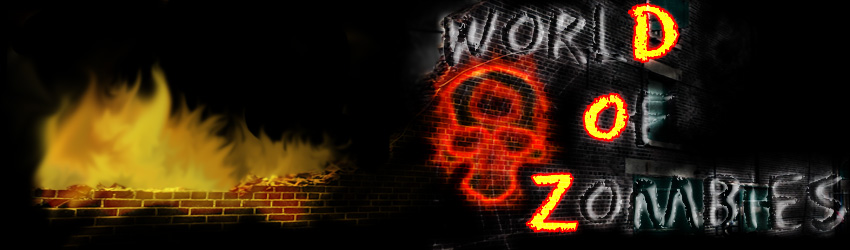
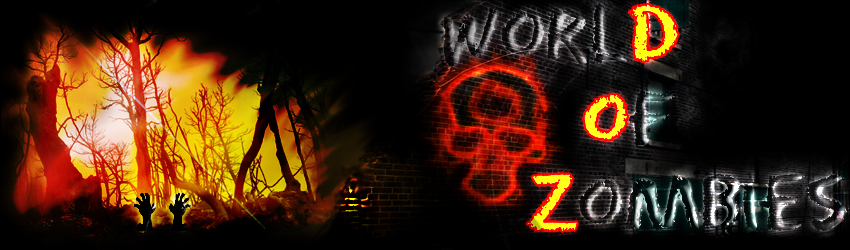
guild
noch net fertig bzw noch nicht die richtigen sql befehle xD
und hab noch was am header verändert!

diff --git a/site/guilddesc.php b/site/guilddesc.php
@@ -9,12 +9,12 @@ include("../_mysql.php");
         echo "Du wirst in 2 Sekunden weitegeleitet.";
         echo "<br />";
         echo "Sollte dies nicht der fall sein <a href='index.php'>HIER KLICKEN</a>";
-        echo '<meta http-equiv="refresh" content="2; URL=index.php">';
+        echo '<meta http-equiv="refresh" content="2; URL=../index.php?site=guild">';
         echo "</center>";
         
         }else{
         
-        $sql_query = "INSERT INTO `guild_db`
+        $sql_query = "UPDATE INTO `guild_db`
 				SET
 					`guild_desc` = '" . $_POST["guild_desc"];
         mysql_query($sql_query);
@@ -23,6 +23,8 @@ include("../_mysql.php");
         echo "Du wirst in 2 Sekunden weitegeleitet.";
         echo "<br />";
         echo "Sollte dies nicht der fall sein <a href='index.php'>HIER KLICKEN</a>";
-        echo '<meta http-equiv="refresh" content="2; URL=index.php">';
+        echo '<meta http-equiv="refresh" content="2; URL=../index.php?site=guild">';
         echo "</center>";
+        
+        }
 ?>

diff --git a/site/guild.php b/site/guild.php
@@ -75,7 +75,7 @@
         <td colspan="6" style="height: 300px; width: 600px;"><textarea name="guild_desc" cols="80" rows="15"></textarea></td>
     </tr>
     <tr>
-        <td colspan="6" style="height: 25px; width: 600px;"><input type="submit" value="Submit"> </td>
+        <td colspan="6" style="height: 25px; width: 600px;"><input type="submit" name="guild_id" value="Speichern"> </td>
     </tr>
 </table>
 </form>
